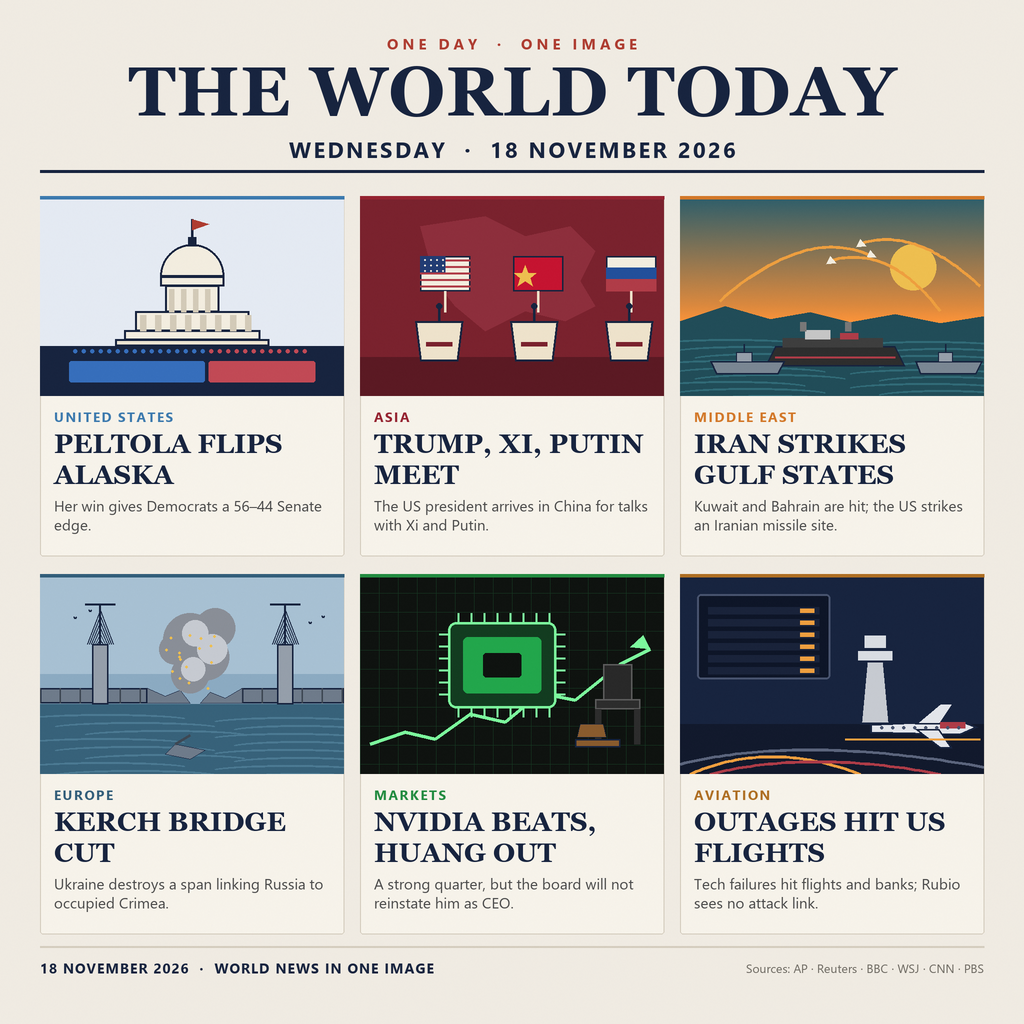
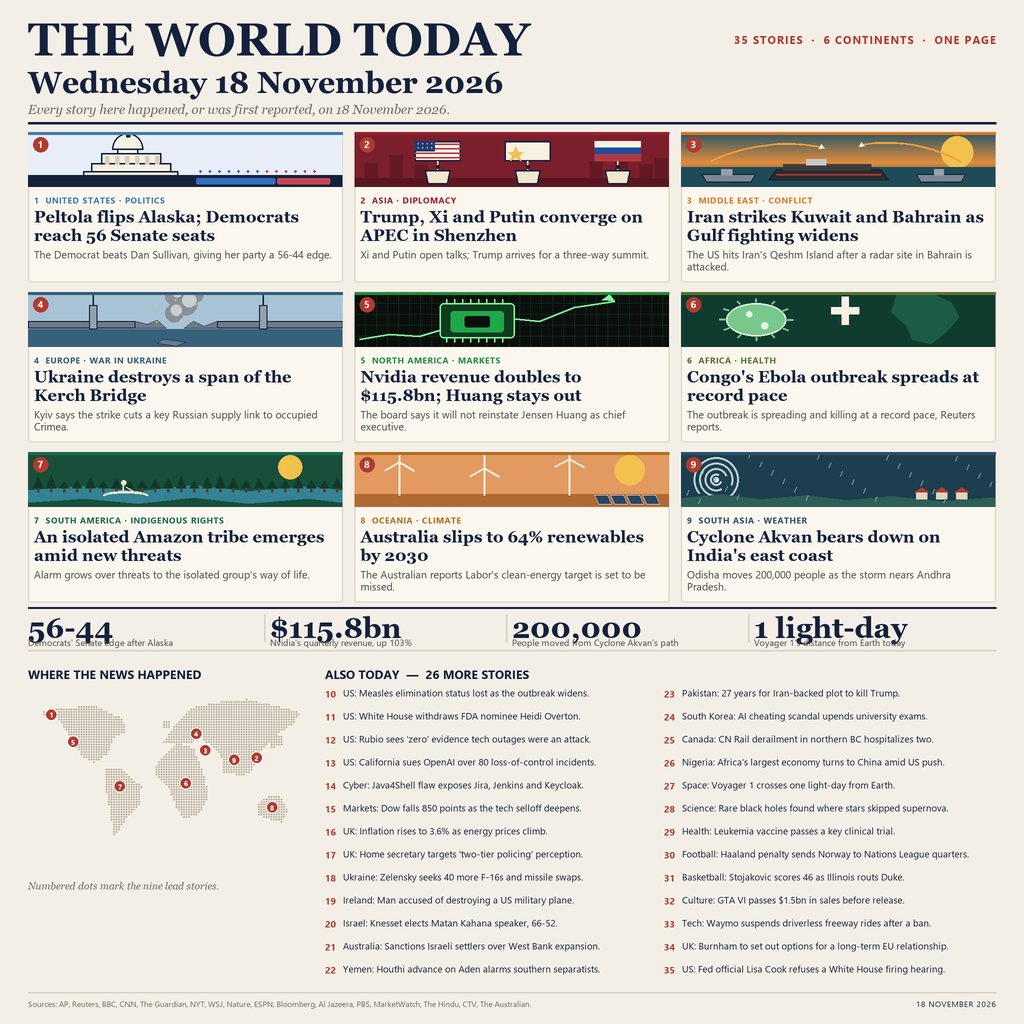
35-story world news front page for 18 November 2026

diff --git a/README.md b/README.md
@@ -4,7 +4,7 @@
 [![rank](https://make.fun/badge/news-image-20261118/Showshin/world-news-2026-11-18/rank.svg)](https://make.fun/bounty/news-image-20261118/leaderboard?utm_source=github&utm_medium=readme&utm_campaign=news-image-20261118)
 [![reward](https://make.fun/badge/news-image-20261118/Showshin/world-news-2026-11-18/reward.svg)](https://make.fun/bounty/news-image-20261118?utm_source=github&utm_medium=readme&utm_campaign=news-image-20261118)
 
-A hand-drawn six-story front page that sums up 18 November 2026 in one image: the Alaska Senate flip, the Trump–Xi–Putin summit, Iran's Gulf strikes, the Kerch Bridge attack, Nvidia's earnings and the US flight outages.
+A 35-story front page in one image: nine illustrated leads and 26 briefs across six continents, from the Alaska Senate flip and the APEC summit to the Kerch Bridge attack, Nvidia's earnings, Congo's Ebola outbreak and Cyclone Akvan.
 
 ## Run it
 
